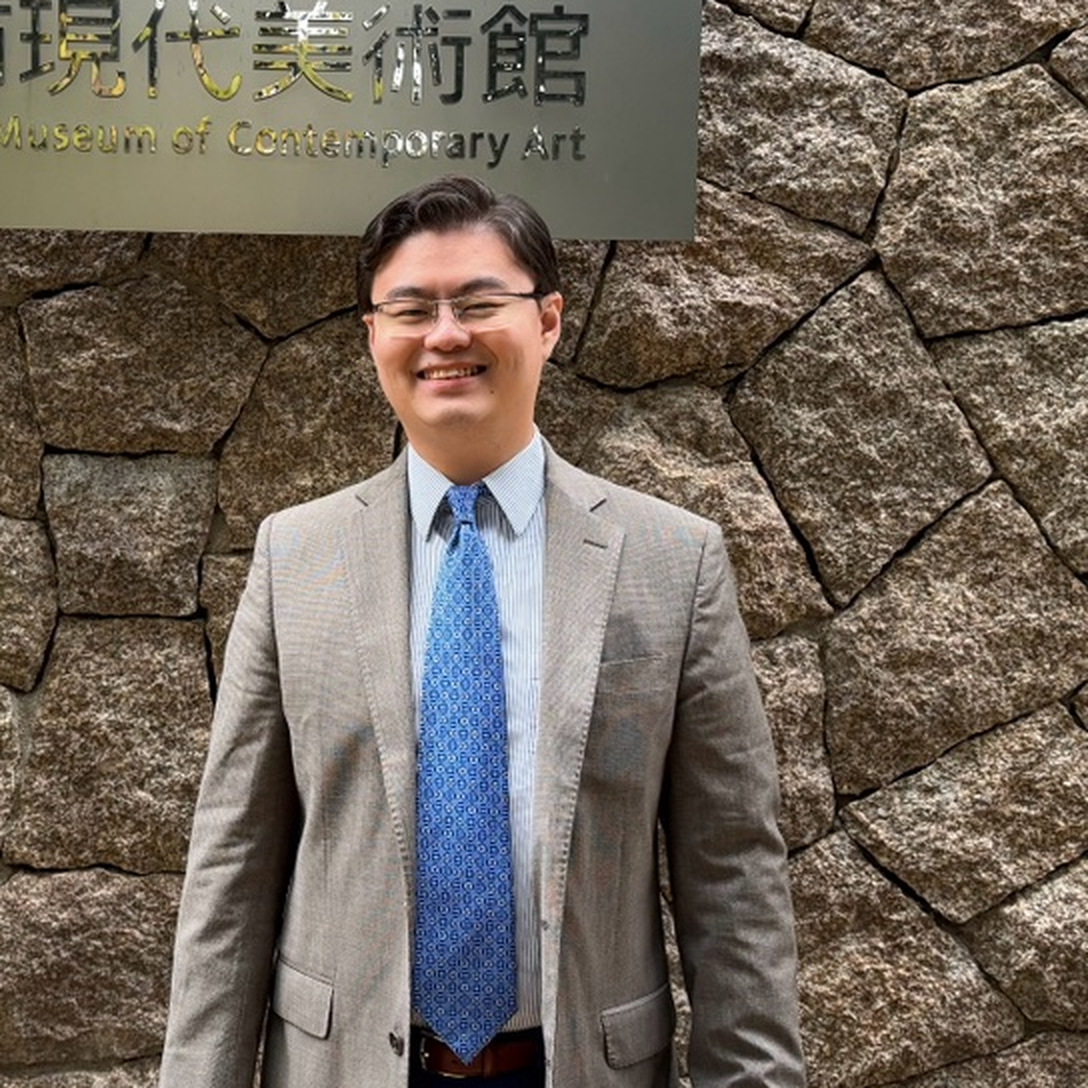
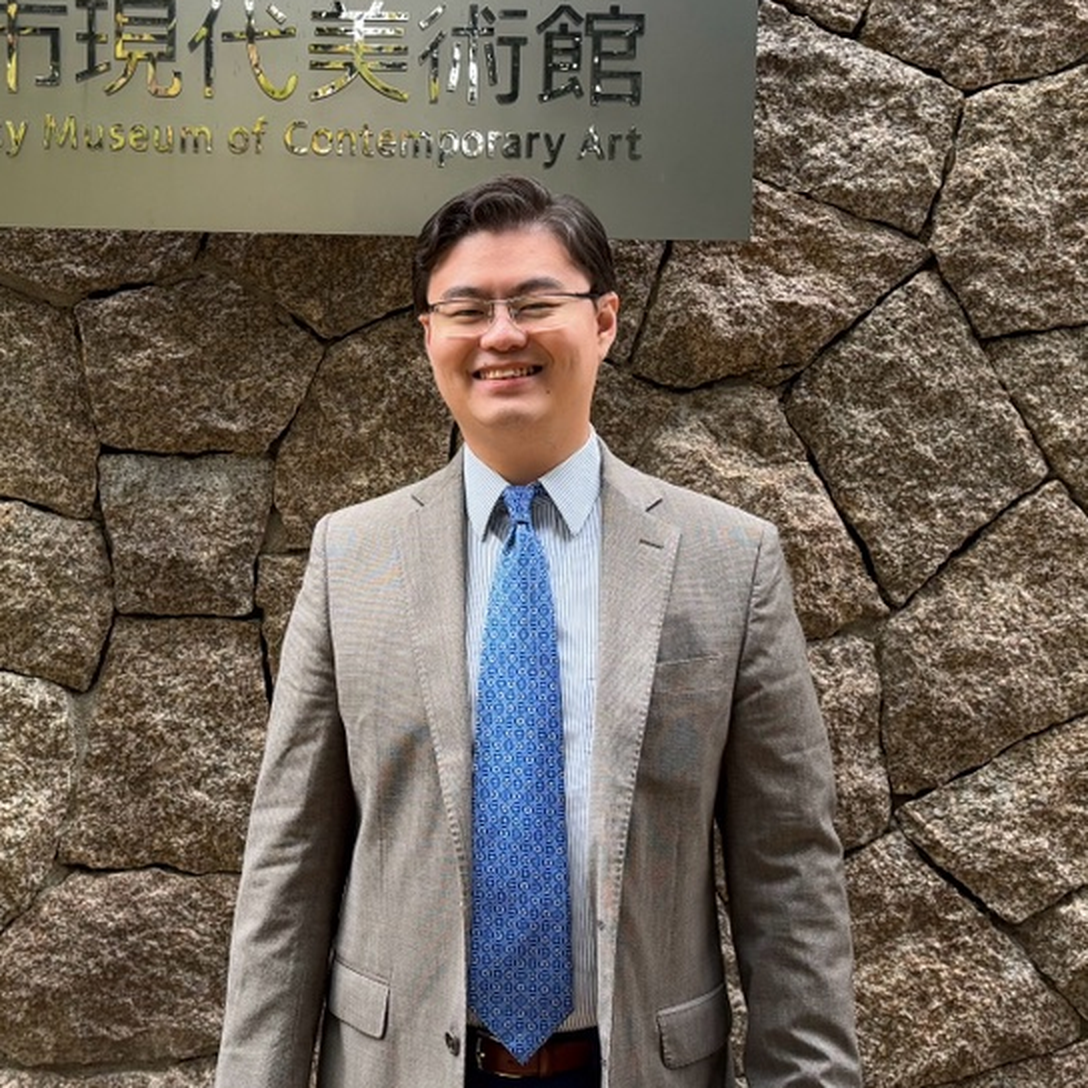
Polish: center portrait crop, dark-mode portrait treatment, fix featured-publications overflow, mute Impact basemap

diff --git a/assets/css/custom.css b/assets/css/custom.css
@@ -213,6 +213,13 @@
   border-radius: 1.25rem;
   box-shadow: var(--v3-shadow), 0 24px 48px -20px rgba(11, 13, 16, .28);
 }
+/* Dark mode: the bright daylight portrait floats on the warm charcoal
+   background, so dim and warm it slightly and give it a faint warm ring
+   to settle it into the page. Homepage portrait only. */
+.dark .v4-home .v4-portrait img {
+  filter: brightness(0.88) contrast(1.03) saturate(0.95);
+  box-shadow: var(--v3-shadow), 0 24px 48px -20px rgba(0, 0, 0, .5), 0 0 0 1px rgba(236, 231, 220, .16);
+}
 @media (min-width: 1024px) {
   .v4-masthead-grid { grid-template-columns: minmax(0, 1fr) 320px; gap: 0; align-items: start; }
   .v4-portrait {
@@ -327,7 +334,12 @@
 }
 
 /* featured publications */
-.v4-feature { display: grid; grid-template-columns: 1fr; gap: 1.6rem; padding: 1.4rem 0 1.8rem; }
+/* Columns are minmax(0, ...) and both grid children carry min-width: 0:
+   with bare fr tracks the text column could not shrink below the
+   min-content width of the long ICQE venue string and summary, so the
+   text ran outside its container on desktop widths. */
+.v4-feature { display: grid; grid-template-columns: minmax(0, 1fr); gap: 1.6rem; padding: 1.4rem 0 1.8rem; }
+.v4-feature-cover, .v4-feature-text { min-width: 0; }
 .v4-feature-cover img {
   display: block; width: 100%; height: auto; border-radius: 1rem;
   border: 1px solid var(--v3-card-line); box-shadow: var(--v3-shadow);
@@ -336,25 +348,30 @@
   font-family: ui-sans-serif, system-ui, -apple-system, "Segoe UI", sans-serif;
   font-size: 12px; font-weight: 650; letter-spacing: .12em; text-transform: uppercase;
   color: var(--v3-text-3); margin: 0 0 .6rem; line-height: 1.6;
+  overflow-wrap: break-word;
 }
-.v4-feature-title { font-size: clamp(1.45rem, 2.6vw, 1.95rem); font-weight: 750; line-height: 1.22; letter-spacing: -.015em; margin: 0 0 .55rem; }
+.v4-feature-title { font-size: clamp(1.45rem, 2.6vw, 1.95rem); font-weight: 750; line-height: 1.22; letter-spacing: -.015em; margin: 0 0 .55rem; overflow-wrap: break-word; }
 .v4-feature-title a { color: inherit; text-decoration: none; }
 .v4-feature-title a:hover { color: var(--v3-accent); }
-.v4-feature-authors { font-size: .95rem; color: var(--v3-text-2); margin: 0 0 .7rem; }
-.v4-feature-summary { color: var(--v3-text-2); line-height: 1.7; margin: 0 0 .9rem; }
+.v4-feature-authors { font-size: .95rem; color: var(--v3-text-2); margin: 0 0 .7rem; overflow-wrap: break-word; }
+.v4-feature-summary {
+  color: var(--v3-text-2); line-height: 1.7; margin: 0 0 .9rem;
+  overflow-wrap: break-word;
+  display: -webkit-box; -webkit-line-clamp: 4; -webkit-box-orient: vertical; overflow: hidden;
+}
 .v4-more { font-weight: 650; color: var(--v3-accent); text-decoration: none; }
 .v4-more:hover { text-decoration: underline; }
 @media (min-width: 900px) {
-  .v4-feature { grid-template-columns: 1.12fr 1fr; gap: 2.5rem; align-items: center; }
+  .v4-feature { grid-template-columns: minmax(0, 1.12fr) minmax(0, 1fr); gap: 2.5rem; align-items: center; }
 }
 .v4-pubrow {
-  display: grid; grid-template-columns: 1fr; gap: .15rem;
+  display: grid; grid-template-columns: minmax(0, 1fr); gap: .15rem;
   padding: 1.15rem 0; border-top: 1px solid var(--v3-line);
 }
-.v4-pubrow-title { font-size: 1.08rem; font-weight: 650; line-height: 1.35; margin: 0; }
+.v4-pubrow-title { font-size: 1.08rem; font-weight: 650; line-height: 1.35; margin: 0; overflow-wrap: break-word; }
 .v4-pubrow-title a { color: inherit; text-decoration: none; }
 .v4-pubrow-title a:hover { color: var(--v3-accent); }
-.v4-pubrow-meta { font-size: .9rem; color: var(--v3-text-3); margin: 0; white-space: nowrap; }
+.v4-pubrow-meta { font-size: .9rem; color: var(--v3-text-3); margin: 0; }
 @media (min-width: 760px) {
   .v4-pubrow { grid-template-columns: minmax(0, 1fr) auto; gap: 1.5rem; align-items: baseline; }
 }

diff --git a/layouts/_partials/hbx/blocks/citation-impact/block.html b/layouts/_partials/hbx/blocks/citation-impact/block.html
@@ -58,6 +58,11 @@
   .dark .ci-card h3 { color: #f9fafb; }
   .ci-card p.ci-sub { font-size: .88rem; color: #8a94a3; margin-bottom: 1rem; }
   #ci-map { height: 480px; border-radius: .75rem; overflow: hidden; background: #eef1f5; z-index: 0; }
+  /* Mute the Esri basemap so it sits with the site's warm paper + ink-blue
+     restraint. Only the tile pane is filtered: markers, pulses and popups
+     live in other Leaflet panes and stay full color. */
+  #ci-map .leaflet-tile-pane { filter: grayscale(1) sepia(0.18) brightness(1.04) contrast(0.94); }
+  .dark #ci-map .leaflet-tile-pane { filter: grayscale(1) sepia(0.12) brightness(0.8) contrast(0.95); }
   .ci-chart-wrap { height: 320px; position: relative; }
   .ci-note { font-size: .8rem; color: #8a94a3; margin-top: .8rem; line-height: 1.55; }
   /* Peer review: journal chips + secondary stats row */
